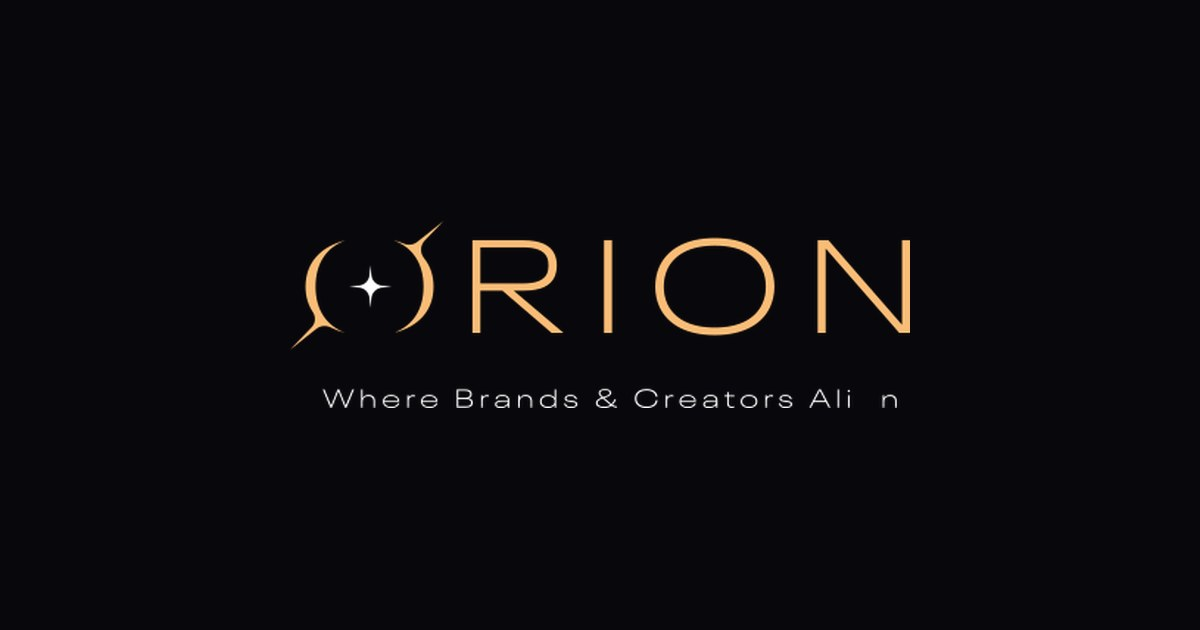
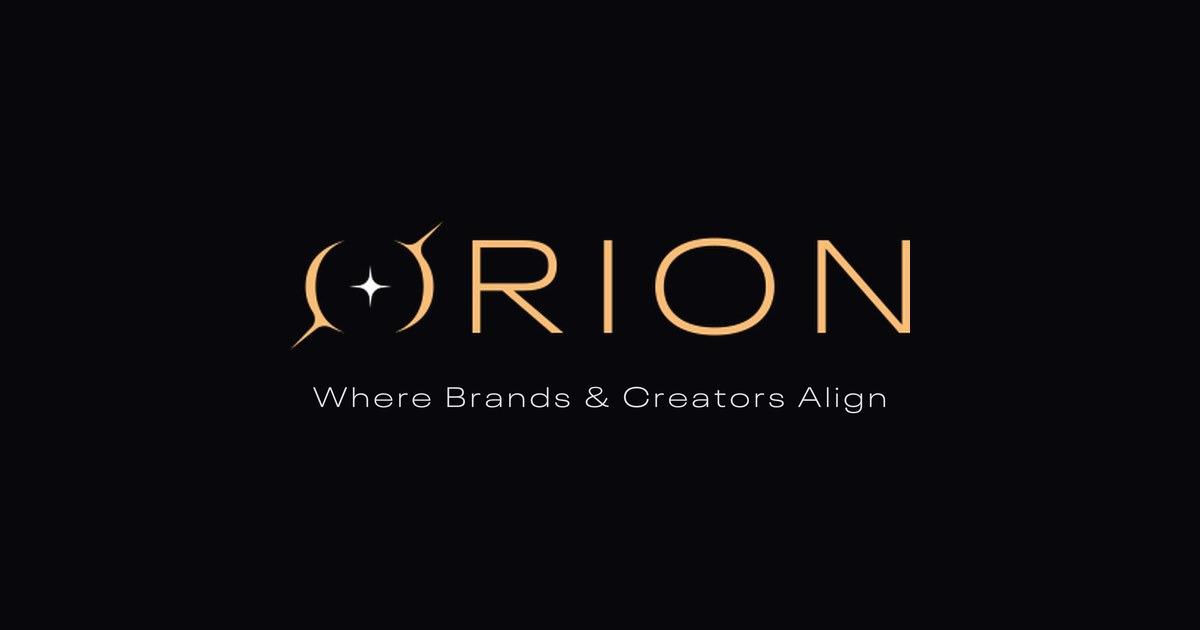
Wire up the contact form and prepare the site for launch
Contact form now posts to Web3Forms rather than an unset endpoint. The
access key is committed in src/data/site.ts because it is a public form
identifier by design — it has to reach the browser regardless. Web3Forms
answers 200 even when it rejects a submission, so the handler checks
`success` in the response body instead of the status. Adding a real
backend makes the mailto handoff (and its "Almost there" panel)
unreachable, so both are gone, along with PUBLIC_CONTACT_ENDPOINT.

SEO for launch: @astrojs/sitemap emits /sitemap-index.xml on every build
and robots.txt points at it. The 404 is filtered out — listing a noindex
page would contradict its own meta. Social meta gains og:locale, image
dimensions and alt text; the dimensions matter because some scrapers skip
an image that lacks them.

The social card read "Where Brands & Creators Ali n" — the g was missing
from the brand asset it was built from. The wordmark was clean, so only
the tagline band was repainted, re-typeset from Neue Plak Wide Light at
the measured original metrics (28px for a 20px cap height, 3.45px
tracking for the same 574px line width). The old lockup was also off
centre because of the absent glyph; it is centred now.

About section takes the new studio image and trades the three attribute
pills for a CTA pair. The overlaid logo mark is gone — the photograph
already carries the mark twice, and the overlay landed on the coffee lid.
Contact form placeholders no longer use a real person's name.

Changed region(s): [[0.2467, 0.6032, 0.74, 0.6635]]

diff --git a/src/data/site.ts b/src/data/site.ts
@@ -14,6 +14,17 @@ export const contact = {
   web: "orioncreators.gg",
 } as const;
 
+/**
+ * Web3Forms delivers the contact form to the account's inbox. The access key is
+ * a public identifier by design — it ships in the page markup and carries no
+ * account privileges, so it is committed rather than kept in an env var.
+ */
+export const web3forms = {
+  accessKey: "62a238e3-dfe9-4a57-94fa-38732069def9",
+  subject: "New partnership enquiry — Orion Creators",
+  fromName: "Orion Creators site",
+} as const;
+
 export const credit = {
   name: "Brian Espina",
   url: "https://brianespina.com/",

diff --git a/src/env.d.ts b/src/env.d.ts
@@ -1,13 +1,1 @@
 /// <reference types="astro/client" />
-
-interface ImportMetaEnv {
-  /**
-   * Endpoint the contact form POSTs JSON to. When unset the form falls back to
-   * composing a mailto: message in the visitor's mail client.
-   */
-  readonly PUBLIC_CONTACT_ENDPOINT?: string;
-}
-
-interface ImportMeta {
-  readonly env: ImportMetaEnv;
-}

diff --git a/README.md b/README.md
@@ -69,15 +69,28 @@ inside its frame.
 
 ## Contact form
 
-The design specifies the form but not a backend. Set `PUBLIC_CONTACT_ENDPOINT`
-(see `.env.example`) to the URL that should receive the submission — the form
-POSTs JSON (`firstName`, `lastName`, `email`, `company`, `message`) and shows the
-"Request sent" panel on a 2xx, or an inline error with a mailto fallback otherwise.
+The form posts to [Web3Forms](https://web3forms.com), which forwards the
+submission to the inbox registered against the access key in `src/data/site.ts`.
+That key is a public identifier — it is meant to ship in the markup and grants
+no account access — so it is committed rather than kept in an env var. Point the
+form at a different inbox by swapping the key there.
 
-With no endpoint configured the form composes the message in the visitor's own
-mail client instead and shows an "Almost there" panel. That handoff copy is the
-one piece of text on the site that is not from the client-approved handoff — it
-covers a state the design didn't specify.
+Fields sent: `firstName`, `lastName`, `email`, `company`, `message`, plus the
+hidden `access_key`, `subject`, `from_name`, and a `botcheck` honeypot Web3Forms
+uses to drop bot submissions. Web3Forms answers `200` even when it rejects a
+submission, so the handler checks `success` in the response body and shows the
+inline error (with a mailto fallback) when it is false.
+
+## SEO
+
+`@astrojs/sitemap` writes `/sitemap-index.xml` (pointing at `/sitemap-0.xml`) on
+every build, from the `site` URL in `astro.config.mjs`. The 404 page is filtered
+out because it carries `noindex` — listing it would contradict its own meta.
+`public/robots.txt` points crawlers at the index; update that absolute URL if
+the domain ever changes.
+
+Each page also emits a canonical link, Open Graph and Twitter card tags, and the
+home page carries `Organization` JSON-LD.
 
 ## Fonts
 
